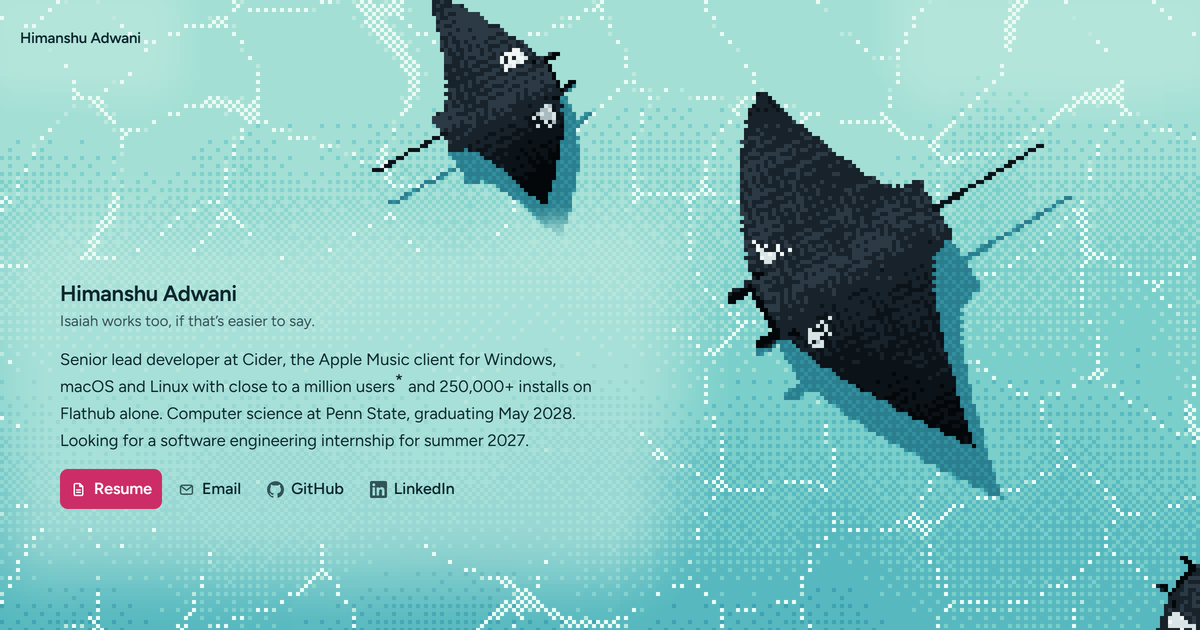
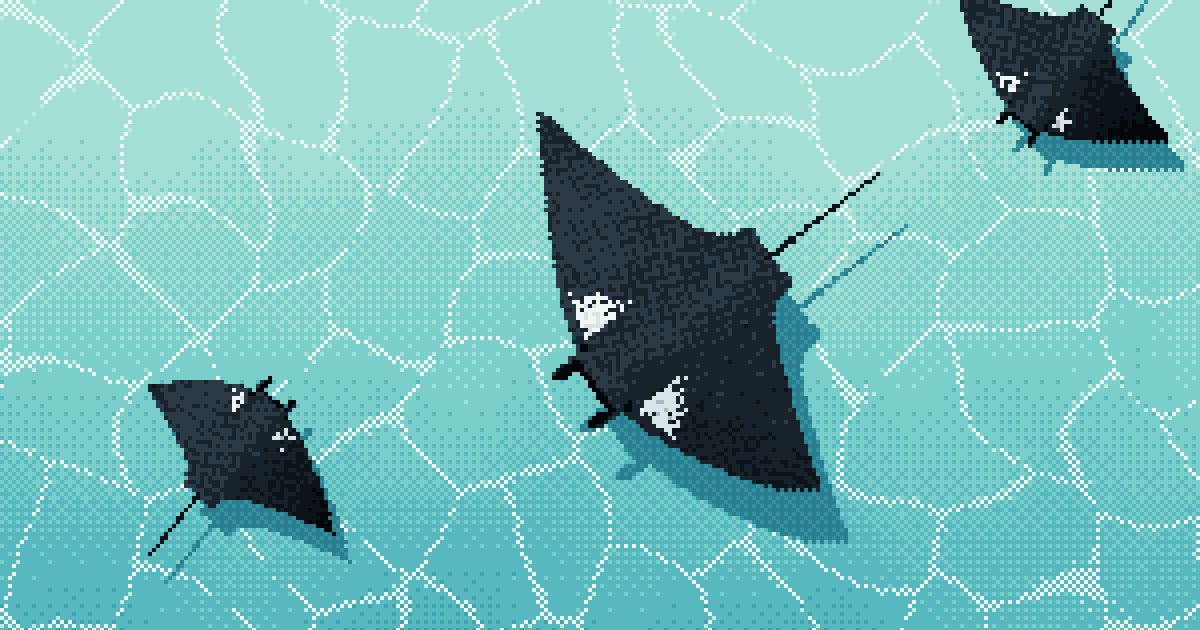
feat(seo): show only the lagoon in link previews
The share image is now the lagoon and its mantas with no text, one
image for both domains. The Discord card shows a square of the lagoon
in place of the avatar, drops the large image and uses a shorter
description.

diff --git a/app/app.vue b/app/app.vue
@@ -3,8 +3,8 @@ const site = 'https://himanshu.sh'
 const { alias, name } = useIdentity()
 const origin = alias ? useRequestURL().origin : site
 const description = `${alias ? 'Monochromish (Himanshu Adwani)' : 'Himanshu Adwani (Isaiah)'}: senior lead developer at Cider, computer science at Penn State, looking for a Summer 2027 software engineering internship.`
-const ogImage = `${origin}/${alias ? 'og-monochromish.png' : 'og.png'}`
-const ogAlt = `A pixel lagoon seen from above with manta rays, and ${name}’s introduction`
+const ogImage = `${origin}/og.png`
+const ogAlt = 'A pixel lagoon seen from above with manta rays'
 const avatar = 'https://avatars.githubusercontent.com/u/79590499?v=4'
 
 useSeoMeta({
@@ -47,7 +47,7 @@ useHead({
 // a Discord component embed (docs.discord.com: Link previews, Component embeds)
 const embed = JSON.stringify({
   component: {
-    // container > section (text and the picture) > gallery (the lagoon) > row of link buttons
+    // container > section (text and a square of the lagoon) > row of link buttons
     type: 17,
     accent_color: 0x57B9BF,
     spoiler: false,
@@ -56,11 +56,10 @@ const embed = JSON.stringify({
         type: 9,
         components: [{
           type: 10,
-          content: `# ${name}\nSenior lead developer at Cider, the Apple Music client for Windows, macOS and Linux, with close to a million users by the team’s estimate and 250,000+ installs on Flathub alone. Computer science at Penn State, graduating May 2028. Looking for a software engineering internship for summer 2027.`,
+          content: `# ${name}\nSenior lead developer at Cider, the Apple Music client for Windows, macOS and Linux. Computer science at Penn State, looking for a software engineering internship for summer 2027.`,
         }],
-        accessory: { type: 11, media: { url: `${site}/icon-192.jpg` } },
+        accessory: { type: 11, media: { url: `${origin}/og-square.png` }, description: ogAlt },
       },
-      { type: 12, items: [{ media: { url: ogImage }, description: ogAlt }] },
       {
         type: 1,
         components: [

diff --git a/nuxt.config.ts b/nuxt.config.ts
@@ -41,7 +41,7 @@ export default defineNuxtConfig({
     '/icon-192.jpg': { headers: { 'cache-control': 'public, max-age=86400' } },
     '/apple-touch-icon.jpg': { headers: { 'cache-control': 'public, max-age=86400' } },
     '/og.png': { headers: { 'cache-control': 'public, max-age=86400' } },
-    '/og-monochromish.png': { headers: { 'cache-control': 'public, max-age=86400' } },
+    '/og-square.png': { headers: { 'cache-control': 'public, max-age=86400' } },
     '/Himanshu_Adwani_Resume.pdf': { headers: { 'cache-control': 'public, max-age=3600, stale-while-revalidate=86400' } },
     '/': { headers: { 'cache-control': 'private, no-cache', 'vary': 'cookie' } },
     '/stickers': { headers: { 'cache-control': 'private, no-cache', 'vary': 'cookie' } },
